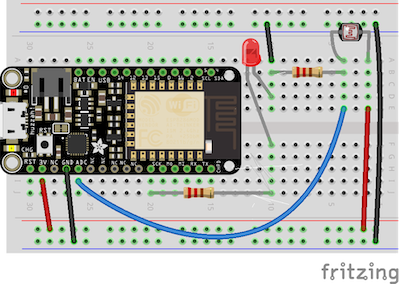
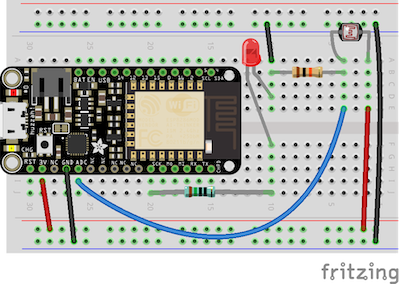
update doc + fritzing diagram to actual resistor values

Changed region(s): [[0.39, 0.6479, 0.69, 0.7042], [0.69, 0.2254, 0.78, 0.2817]]

diff --git a/README.md b/README.md
@@ -13,7 +13,8 @@ Why? Due to the covid-19 shelter in place orders, my whole family has been worki
 - Adafruit Feather HUZZAH with ESP8266
 - Photocell
 - Red LED
-- 2x resistors
+- 10KΩ resistor (for photocell)
+- 150Ω resistor (for led)
 - Hue Go
 
 ## Notes
